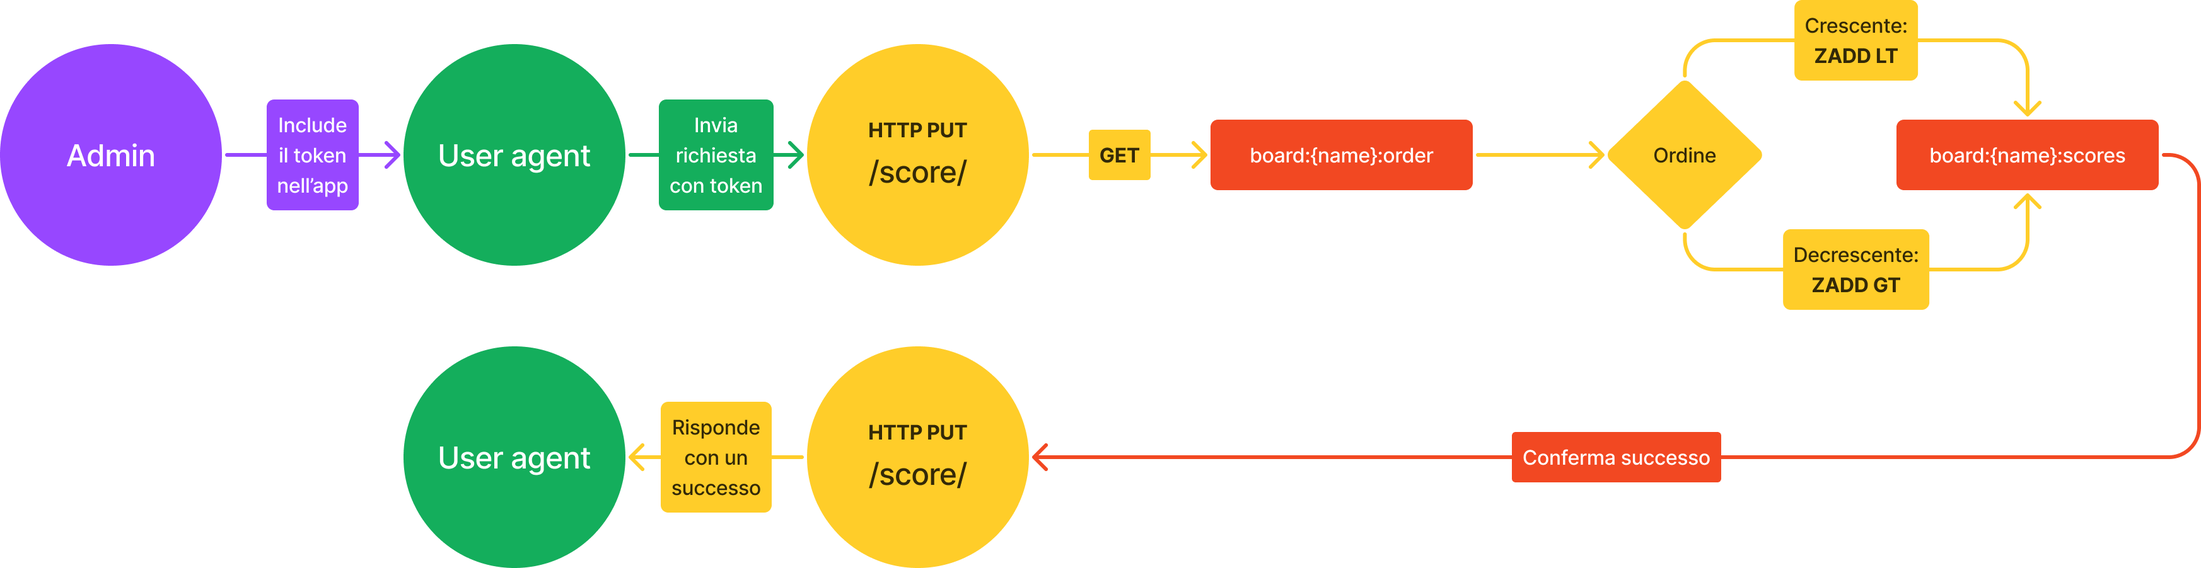
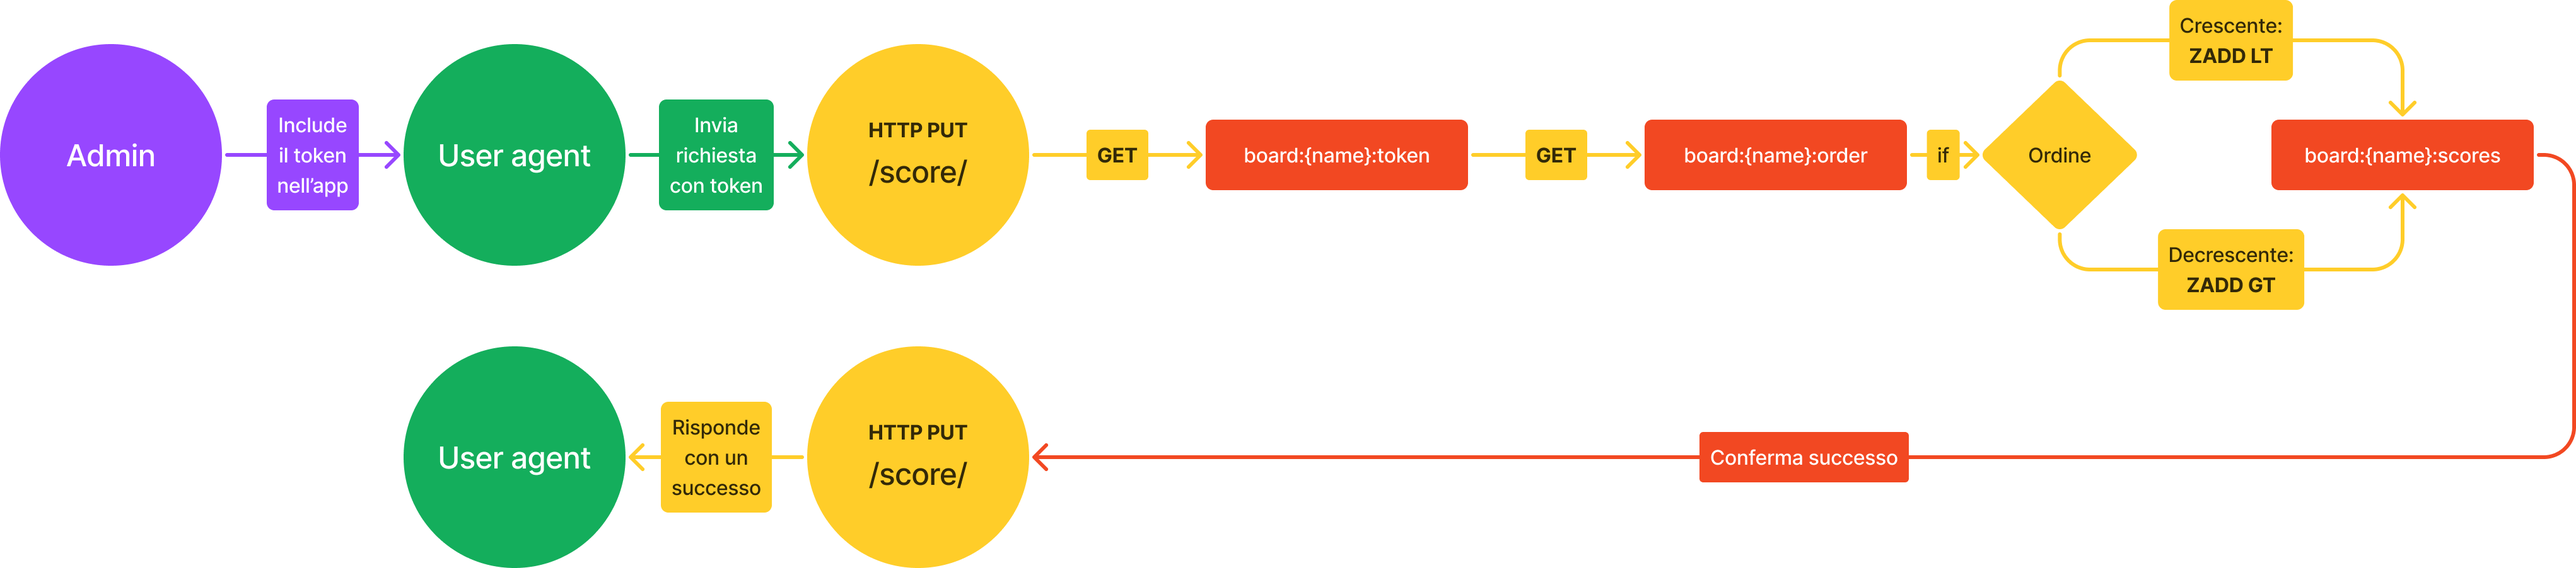
Complete everything
Exaxctly 3000 words!

diff --git a/README.md b/README.md
@@ -255,7 +255,7 @@ Se l'applicazione è configurata correttamente, essa invia il comando [`PING`](h
 
 Nell'applicazione, amministratori autorizzati possono creare ***board*** ("tabelloni", da *leaderboard*, "classifica"), ricevendo un ***token*** (una stringa di testo url-safe generata in modo crittograficamente sicuro) per l'immissione di punteggi in quello specifico board.
 
-Perchè venga creato un board, l'amministratore dovrà inviare una richiesta `HTTP POST /board/` all'applicazione con i dati del board che si vuole creare:
+Perchè venga creato un board, l'amministratore dovrà inviare una richiesta `HTTP POST /board/` verso l'applicazione con i dati del board che si vuole creare:
 
 * il nome del board
 * l'ordinamento del board, ovvero se i punteggi migliori sono quelli più bassi (***crescente***, come nel golf o nelle gare di corsa) o quelli più alti (***decrescente***, come nel salto in alto o nel calcio)
@@ -266,7 +266,7 @@ Per la creazione effettiva del board, internamente vengono effettuate alcune ope
 
 1. viene aperta una transazione attraverso il comando [`MULTI`]
 2. viene verificato che nessuna delle chiavi utilizzate dal board contengano già dati
-3. viene scritto l'ordinamento nella chiave `board:{name}:order` con il comando [`SET`]
+3. viene salvato l'ordinamento nella chiave `board:{name}:order` con il comando [`SET`]
 4. viene generata in modo crittograficamente sicuro una stringa detta ***token*** che viene archiviata nella chiave `board:{name}:token` con il comando [`SET`]
 5. viene eseguita in blocco la transazione attraverso il comando [`EXEC`]
 
@@ -280,40 +280,131 @@ Terminata la creazione, l'user agent riceve una risposta `HTTP 201` contenente i
 
 #### Invio di punteggi
 
-<!-- TODO -->
+Una volta creato un board, è possibile utilizzare il token restituito nel momento della sua creazione per inviare nuovi ***score*** (punteggi) al database.
+
+Per inviare un nuovo punteggio, un user agent dovrà effettuare una richiesta `HTTP PUT /score/` verso l'applicazione, specificando:
+
+* il nome del giocatore
+* il punteggio raggiunto
+* il nome del board all'interno del quale si vuole inserire il punteggio
+
+Ricevuta una richiesta, Distributed Arcade effettua le seguenti operazioni:
+
+1. recupera il token del board specificato attraverso il comando [`GET`] `board:{name}:token`
+2. verifica che il token coincida con quello archiviato
+3. recupera l'ordinamento del board con [`GET`] `board:{name}:order`
+4. inserisce il punteggio nella chiave `board:{name}:scores` attraverso il comando Redis [`ZADD`], modificando il punteggio solo in caso di miglioramento:
+    * se il board è in ordine crescente, specifica il parametro `LT`, in modo che punteggi più bassi sovrascrivano quelli più alti
+    * se il board è in ordine decrescente, specifica il parametro `GT`, in modo che punteggi più alti sovrascrivano quelli più bassi
+5. [recupera il nuovo punteggio e la nuova posizione del giocatore come descritto nel paragrafo successivo](recupero-di-punteggi)
+
+Completate le operazioni, l'applicazione restituisce all'user agent il codice `HTTP 201` se il punteggio è stato aggiornato, oppure `HTTP 200` in caso contrario.  
+In entrambi i casi, il corpo della risposta conterrà punteggio e posizione attuali del giocatore in formato JSON, come se fosse stato effettuato un [recupero di punteggi](recupero-di-punteggi).
 
 ![Diagramma di funzionamento dell'invio di punteggi](media/diagram-put-score.png)
 
+[`GET`]: https://redis.io/commands/get/
+[`ZADD`]: https://redis.io/commands/zadd/
+
 #### Recupero di punteggi
 
-<!-- TODO -->
+In qualsiasi momento, un user agent può richiedere di ricevere il punteggio e la posizione in classifica di un giocatore effettuando una richiesta `HTTP GET /score/`, specificando il nome del board e del giocatore interessati.
+
+Alla ricezione, Distributed Arcade:
+
+1. Recupera il punteggio attuale del giocatore eseguendo il comando [`ZSCORE`] sulla chiave `board:{name}:scores`
+2. Recupera l'ordinamento del board attraverso il comando [`GET`] `board:{name}:order`
+3. In base all'ordinamento del board, per ottenere la posizione in classifica del giocatore:
+    * se il board è in ordine crescente, utilizza il comando [`ZRANK`] `board:{name}:scores`
+    * se il board è in ordine decrescente, utilizza invece il comando [`ZREVRANK`] `board:{name}:scores`
+
+Al termine dell'elaborazione, i dati recuperati sono restituiti nel corpo della risposta in formato JSON:
+
+```json
+{
+    "score": 1234.56,
+    "rank": 0
+}
+```
+> La posizione in classifica restituita è indicizzata a 0, quindi questo giocatore sarebbe primo nel suo board!
 
 ![Diagramma di funzionamento del recupero di punteggi](media/diagram-get-score.png)
 
+[`ZSCORE`]: https://redis.io/commands/zscore/
+[`GET`]: https://redis.io/commands/get/
+[`ZRANK`]: https://redis.io/commands/zrank/
+[`ZREVRANK`]: https://redis.io/commands/zrevrank/
+
 #### Recupero di classifiche
 
-<!-- TODO -->
+Infine, gli user agent possono richiedere i dati di un'intero board attraverso una richiesta `HTTP GET /board/`, specificando il nome del board in questione, e l'offset di inizio e dimensione di una pagina di classifica.
+
+Questa richiesta farà in modo che Distributed Arcade:
+
+1. recuperi l'ordinamento del board con il comando [`GET`] `board:{name}:order`
+2. in base all'ordinamento, effettui uno dei due seguenti comandi per ottenere una pagina di classifica:
+    * se il board è in ordine crescente, [`ZRANGE`] `board:{name}:scores` `{offset}` `{offset + size}` `WITHSCORES`
+    * se il board è in ordine decrescente, [`ZRANGE`] `board:{name}:scores` `{offset}` `{offset + size}` `REV` `WITHSCORES`
+
+La pagina ottenuta verrà poi restituita all'user agent, assieme a un codice `HTTP 200`:
+
+```jsonc
+[
+  {
+    "name": "Offets :)",
+    "score": 2468.19
+  },
+  {
+    "name": "Steffo :(",
+    "score": 1234.56
+  },
+  // [...]
+]
+```
 
 ![Diagramma di funzionamento del recupero di classifiche](media/diagram-get-board.png)
 
+[`GET`]: https://redis.io/commands/get/
+[`ZRANGE`]: https://redis.io/commands/zrange/
+
 ## Testing e benchmarking
 
-<!-- TODO -->
+Al fine di verificare correttezza ed efficacia del software, sono stati effettuati test manuali ed automatici.
+
+### Richieste manuali
+
+All'applicazione è stata allegato un file [`openapi.yaml`](https://github.com/Steffo99/distributed-arcade/blob/main/docs/openapi.yaml), che descrive tutti i metodi dell'API e può essere interpretato da software esterni [per essere renderizzato](https://petstore.swagger.io/?url=https://raw.githubusercontent.com/Steffo99/distributed-arcade/main/docs/openapi.yaml) o perchè essi forniscano [assistenza allo sviluppo di consumatori dell'API](https://www.jetbrains.com/help/idea/openapi.html).
+
+Per effettuare test manuali di correttezza dell'API, si è fatto particolare uso di uno di questi renderer, [Swagger UI](https://swagger.io/tools/swagger-ui/).
 
 ### Richieste HTTP di esempio
 
-<!-- TODO -->
+All'applicazione è stato anche allegato un file [`examples.http`](https://github.com/Steffo99/distributed-arcade/blob/main/docs/examples.http) contenente alcune richieste HTTP di esempio che è possibile utilizzare per testare semi-automaticamente il software.
 
-### Stress testing con [`siege`](https://www.joedog.org/siege-home/)
+### Stress testing
 
-<!-- TODO -->
+Per verificare l'efficienza dell'applicazione e del database Redis ad essa connesso, è stato utilizzato [Siege](https://www.joedog.org/siege-home/), un tool per lo stress testing di siti web, configurandolo in modo che inviasse più richieste HTTP possibili di [invio di punteggi](invio-di-punteggi).
 
-### Possibile estensione: clustering
+I risultati ottenuti sono stati eccellenti: è stato raggiunto prima un collo di bottiglia nell'invio delle richieste che nell'elaborazione di esse, raggiungendo le **2400 richieste processate/secondo** in locale su un `AMD Ryzen 5 1600X Six-Core @ 12x 3.6GHz`!
 
-## Conclusioni
+## Possibile estensione: clustering
+
+Nel caso sia necessaria una capacità di elaborazione ancora più elevata, modificando leggermente il nome delle chiavi utilizzate per i board, dovrebbe essere possibile realizzare un [cluster](clustering) di client Redis, permettendo un maggiore throughput in scrittura su diversi board.
+
+## Conclusione
+
+Redis rispetta le caratteristiche con cui si presenta, ovvero di **semplicità**, **efficienza**, **velocità** e **scalabilità**, confermandosi una buona scelta sia nella sua tipica funzione di database secondario, sia nella meno convenzionale funzione di database secondario.
+
+L'applicazione sviluppata ha soddisfatto tutti i requisiti che ci si era posti all'inizio dello sviluppo, ed è stata messa in produzione con successo: è raggiungibile all'indirizzo *https://arcade.steffo.eu/*.  
+Si spera di utilizzarla per applicazioni future.
 
 ## Bibliografia
 
-- [**Documentazione** di Redis](https://redis.io/docs/)
-- [**The SET command is a strange beast**, articolo dal blog di Redis](https://redis.com/blog/set-command-strange-beast/)
-- [**Redis** su Wikipedia](https://en.wikipedia.org/w/index.php?title=Redis&oldid=1115152231)
+La bibliografia è deliberatamente omessa in quanto tutte le fonti utilizzate sono referenziate direttamente all'interno del documento come collegamenti ipertestuali.
+
+Nel caso si stia leggendo una copia della relazione stampata senza rendering dei collegamenti, si riportano qui sotto le principali fonti:
+
+* **Documentazione** di Redis - https://redis.io/docs/
+* **Redis** su Wikipedia - https://en.wikipedia.org/w/index.php?title=Redis&oldid=1115152231
+* **Repository** di Distributed Arcade - https://github.com/Steffo99/distributed-arcade
+* **Documentazione** di Siege - https://www.joedog.org/siege-home/
